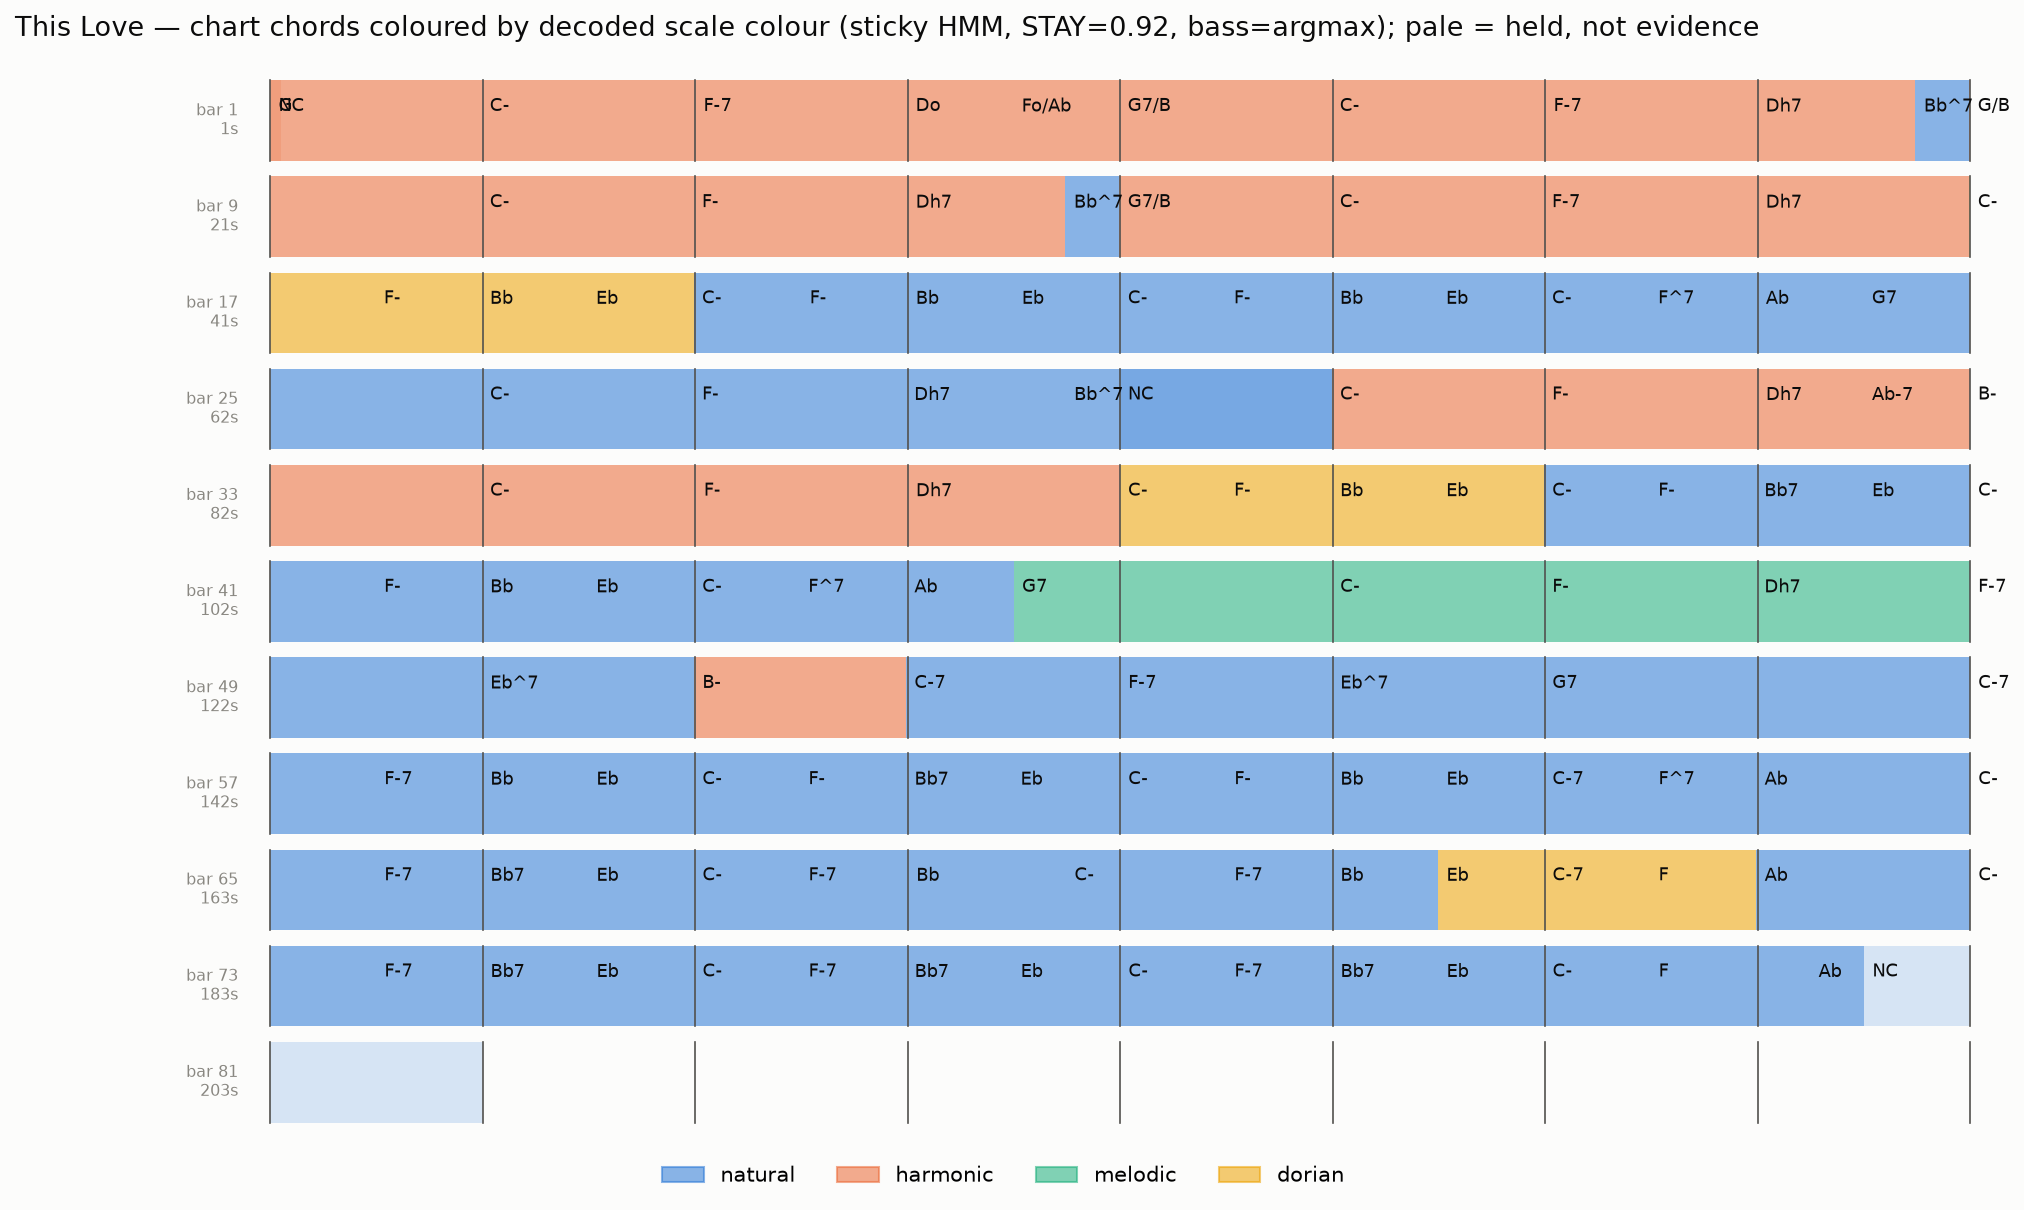
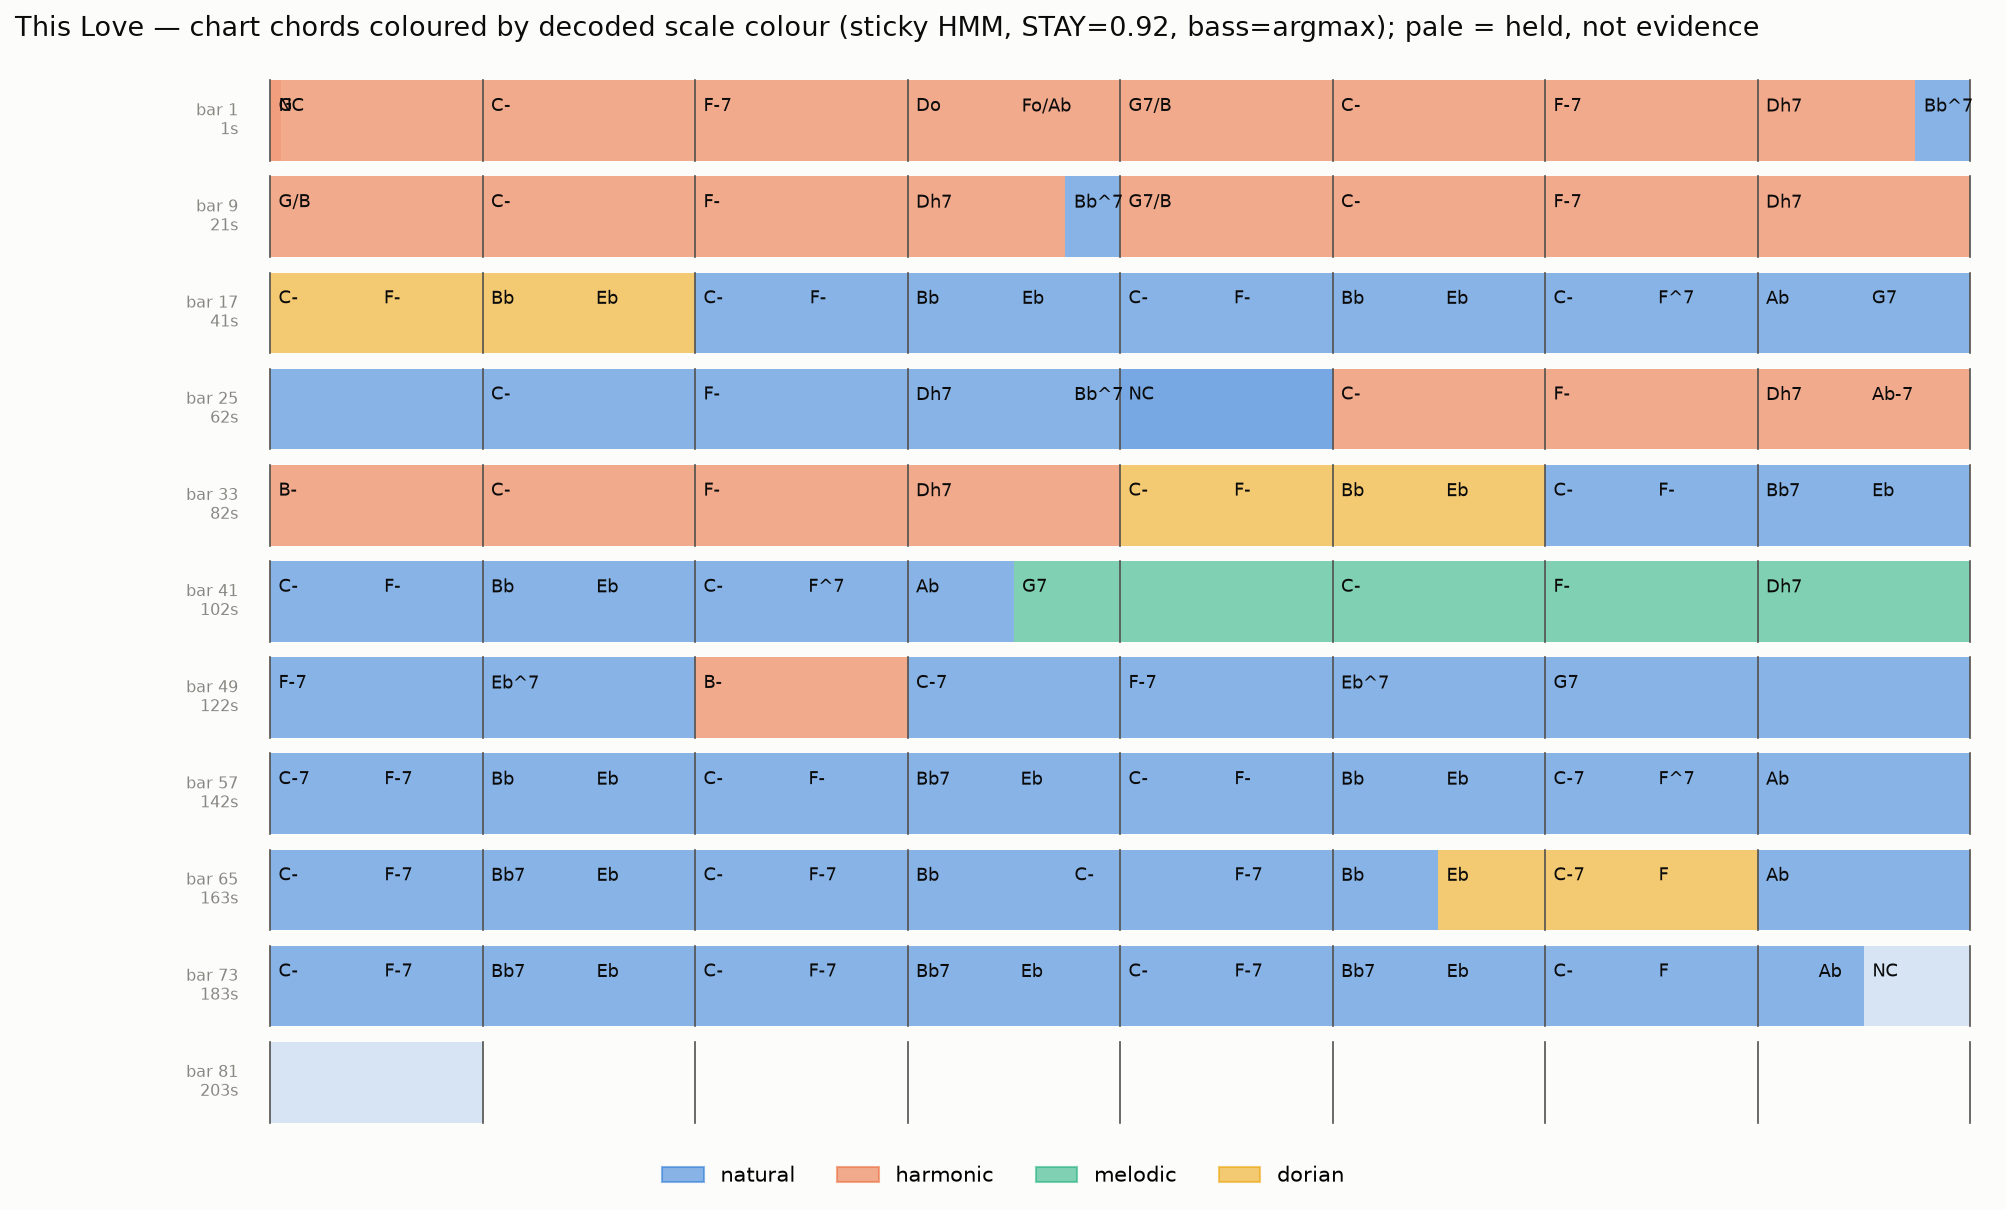
colour chart: snap chord positions to bar lines within 10% of a bar
Chart payload times are rounded to 10ms and the bar grid is reconstructed
independently, so on-the-barline chords landed ~10ms early and rendered as
slivers at the end of the previous row (70/120 chords, median 10ms).

diff --git a/scratchpad/colour_chart_this_love.py b/scratchpad/colour_chart_this_love.py
@@ -48,10 +48,16 @@ def main() -> None:
     n_bars = len(bar_t0) - 1
 
     def to_pos(t: float) -> float:
-        """time -> fractional bar position (bar index + fraction within bar)."""
+        """time -> fractional bar position (bar index + fraction within bar).
+
+        Chart times are rounded to 10 ms and the bar grid is reconstructed
+        independently, so on-the-barline chords land ~10 ms early; snap
+        positions within 10% of a bar to the bar line.
+        """
         b = int(np.clip(np.searchsorted(bar_t0, t, side="right") - 1, 0, n_bars - 1))
         frac = (t - bar_t0[b]) / (bar_t0[b + 1] - bar_t0[b])
-        return b + float(np.clip(frac, 0.0, 1.0))
+        p = b + float(np.clip(frac, 0.0, 1.0))
+        return float(round(p)) if abs(p - round(p)) < 0.1 else p
 
     n_rows = int(np.ceil(n_bars / BARS_PER_ROW))
     fig, ax = plt.subplots(figsize=(17, 0.75 * n_rows + 1.2))
